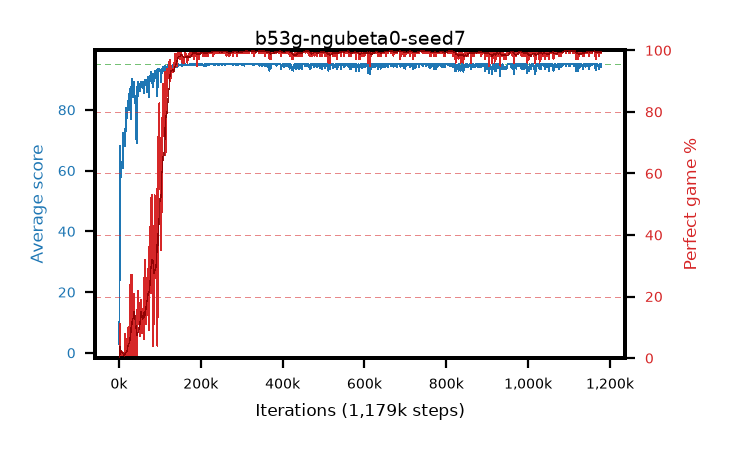
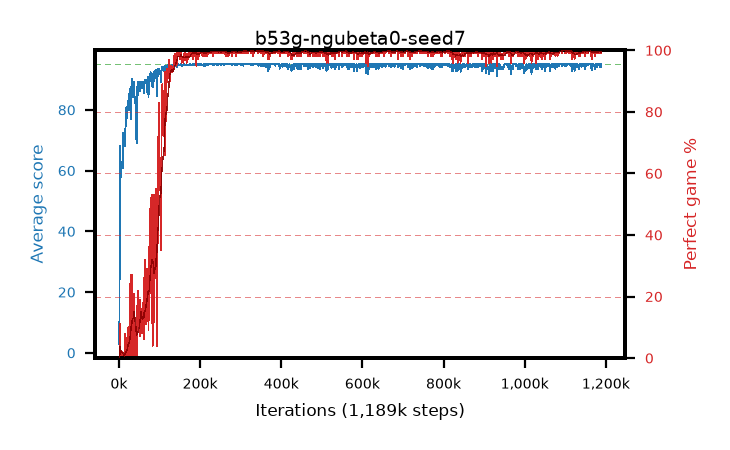
live pictures of 4 arm(s)

diff --git a/results/b53g-ngubeta0-seed7/b53g-ngubeta0-seed7.md b/results/b53g-ngubeta0-seed7/b53g-ngubeta0-seed7.md
@@ -1,6 +1,6 @@
 # b53g-ngubeta0-seed7
 
-step **1,179,000** · 1179 evals · trailing **94.7** · peak **94.97** @274,000 · sef **90.6** · best30 **99.8** @1,111,000
+step **1,189,000** · 1189 evals · trailing **94.65** · peak **94.97** @274,000 · sef **90.7** · best30 **99.8** @1,111,000
 
 ## Config
 
@@ -80,15 +80,15 @@ step **1,179,000** · 1179 evals · trailing **94.7** · peak **94.97** @274,000
 | 2000 | 37.8 | 20.34 | 6.0 | 63.0 | 32.628 | 0.0 | 0.4 |
 | 3000 | 67.99 | 36.22 | 23.0 | 95.0 | 74.006 | 11.0 | 0.4 |
 | ... | ... | ... | ... | ... | ... | ... | ... |
-| 1168000 | 95.0 | 94.72 | 95.0 | 95.0 | 193.782 | 100.0 | 0.4 |
-| 1169000 | 95.0 | 94.72 | 95.0 | 95.0 | 193.79 | 100.0 | 0.4 |
-| 1170000 | 95.0 | 94.72 | 95.0 | 95.0 | 193.788 | 100.0 | 0.4 |
-| 1171000 | 94.35 | 94.72 | 30.0 | 95.0 | 192.087 | 99.0 | 0.4 |
-| 1172000 | 94.26 | 94.72 | 21.0 | 95.0 | 192.013 | 99.0 | 0.4 |
-| 1173000 | 93.53 | 94.68 | 21.0 | 95.0 | 190.25 | 98.0 | 0.4 |
-| 1174000 | 95.0 | 94.68 | 95.0 | 95.0 | 193.794 | 100.0 | 0.4 |
-| 1175000 | 94.18 | 94.67 | 13.0 | 95.0 | 191.929 | 99.0 | 0.4 |
-| 1176000 | 95.0 | 94.67 | 95.0 | 95.0 | 193.792 | 100.0 | 0.4 |
-| 1177000 | 95.0 | 94.67 | 95.0 | 95.0 | 193.786 | 100.0 | 0.4 |
 | 1178000 | 95.0 | 94.67 | 95.0 | 95.0 | 193.791 | 100.0 | 0.4 |
 | 1179000 | 94.17 | 94.7 | 12.0 | 95.0 | 191.925 | 99.0 | 0.4 |
+| 1180000 | 94.95 | 94.69 | 90.0 | 95.0 | 192.702 | 99.0 | 0.4 |
+| 1181000 | 95.0 | 94.69 | 95.0 | 95.0 | 193.787 | 100.0 | 0.4 |
+| 1182000 | 95.0 | 94.72 | 95.0 | 95.0 | 193.791 | 100.0 | 0.4 |
+| 1183000 | 95.0 | 94.72 | 95.0 | 95.0 | 193.795 | 100.0 | 0.4 |
+| 1184000 | 94.95 | 94.72 | 90.0 | 95.0 | 192.698 | 99.0 | 0.4 |
+| 1185000 | 94.13 | 94.69 | 8.0 | 95.0 | 191.88 | 99.0 | 0.4 |
+| 1186000 | 94.2 | 94.66 | 15.0 | 95.0 | 191.951 | 99.0 | 0.4 |
+| 1187000 | 95.0 | 94.67 | 95.0 | 95.0 | 193.794 | 100.0 | 0.4 |
+| 1188000 | 94.17 | 94.65 | 12.0 | 95.0 | 191.93 | 99.0 | 0.4 |
+| 1189000 | 95.0 | 94.65 | 95.0 | 95.0 | 193.787 | 100.0 | 0.4 |

diff --git a/results/b53e-ngubeta0-seed5/b53e-ngubeta0-seed5.md b/results/b53e-ngubeta0-seed5/b53e-ngubeta0-seed5.md
@@ -1,6 +1,6 @@
 # b53e-ngubeta0-seed5
 
-step **1,169,000** · 1169 evals · trailing **94.74** · peak **94.95** @437,000 · sef **91.4** · best30 **99.8** @530,000
+step **1,179,000** · 1179 evals · trailing **94.73** · peak **94.95** @437,000 · sef **91.4** · best30 **99.8** @530,000
 
 ## Config
 
@@ -80,15 +80,15 @@ step **1,169,000** · 1169 evals · trailing **94.74** · peak **94.95** @437,00
 | 2000 | 29.39 | 17.35 | 3.0 | 54.0 | 24.459 | 0.0 | 0.4 |
 | 3000 | 50.81 | 28.5 | 16.0 | 85.0 | 45.457 | 0.0 | 0.4 |
 | ... | ... | ... | ... | ... | ... | ... | ... |
-| 1158000 | 95.0 | 94.66 | 95.0 | 95.0 | 193.78 | 100.0 | 0.4 |
-| 1159000 | 95.0 | 94.66 | 95.0 | 95.0 | 193.789 | 100.0 | 0.4 |
-| 1160000 | 94.33 | 94.64 | 28.0 | 95.0 | 192.071 | 99.0 | 0.4 |
-| 1161000 | 95.0 | 94.64 | 95.0 | 95.0 | 193.785 | 100.0 | 0.4 |
-| 1162000 | 94.32 | 94.61 | 27.0 | 95.0 | 192.066 | 99.0 | 0.4 |
-| 1163000 | 95.0 | 94.64 | 95.0 | 95.0 | 193.792 | 100.0 | 0.4 |
-| 1164000 | 95.0 | 94.64 | 95.0 | 95.0 | 193.787 | 100.0 | 0.4 |
-| 1165000 | 95.0 | 94.64 | 95.0 | 95.0 | 193.79 | 100.0 | 0.4 |
-| 1166000 | 95.0 | 94.72 | 95.0 | 95.0 | 193.791 | 100.0 | 0.4 |
-| 1167000 | 95.0 | 94.72 | 95.0 | 95.0 | 193.785 | 100.0 | 0.4 |
 | 1168000 | 95.0 | 94.74 | 95.0 | 95.0 | 193.782 | 100.0 | 0.4 |
 | 1169000 | 95.0 | 94.74 | 95.0 | 95.0 | 193.789 | 100.0 | 0.4 |
+| 1170000 | 94.67 | 94.73 | 62.0 | 95.0 | 192.413 | 99.0 | 0.4 |
+| 1171000 | 94.82 | 94.76 | 77.0 | 95.0 | 192.567 | 99.0 | 0.4 |
+| 1172000 | 95.0 | 94.78 | 95.0 | 95.0 | 193.785 | 100.0 | 0.4 |
+| 1173000 | 95.0 | 94.78 | 95.0 | 95.0 | 193.782 | 100.0 | 0.4 |
+| 1174000 | 95.0 | 94.78 | 95.0 | 95.0 | 193.782 | 100.0 | 0.4 |
+| 1175000 | 95.0 | 94.8 | 95.0 | 95.0 | 193.786 | 100.0 | 0.4 |
+| 1176000 | 93.31 | 94.75 | 4.0 | 95.0 | 188.972 | 97.0 | 0.4 |
+| 1177000 | 94.17 | 94.72 | 12.0 | 95.0 | 191.913 | 99.0 | 0.4 |
+| 1178000 | 94.16 | 94.72 | 11.0 | 95.0 | 191.906 | 99.0 | 0.4 |
+| 1179000 | 95.0 | 94.73 | 95.0 | 95.0 | 193.788 | 100.0 | 0.4 |
